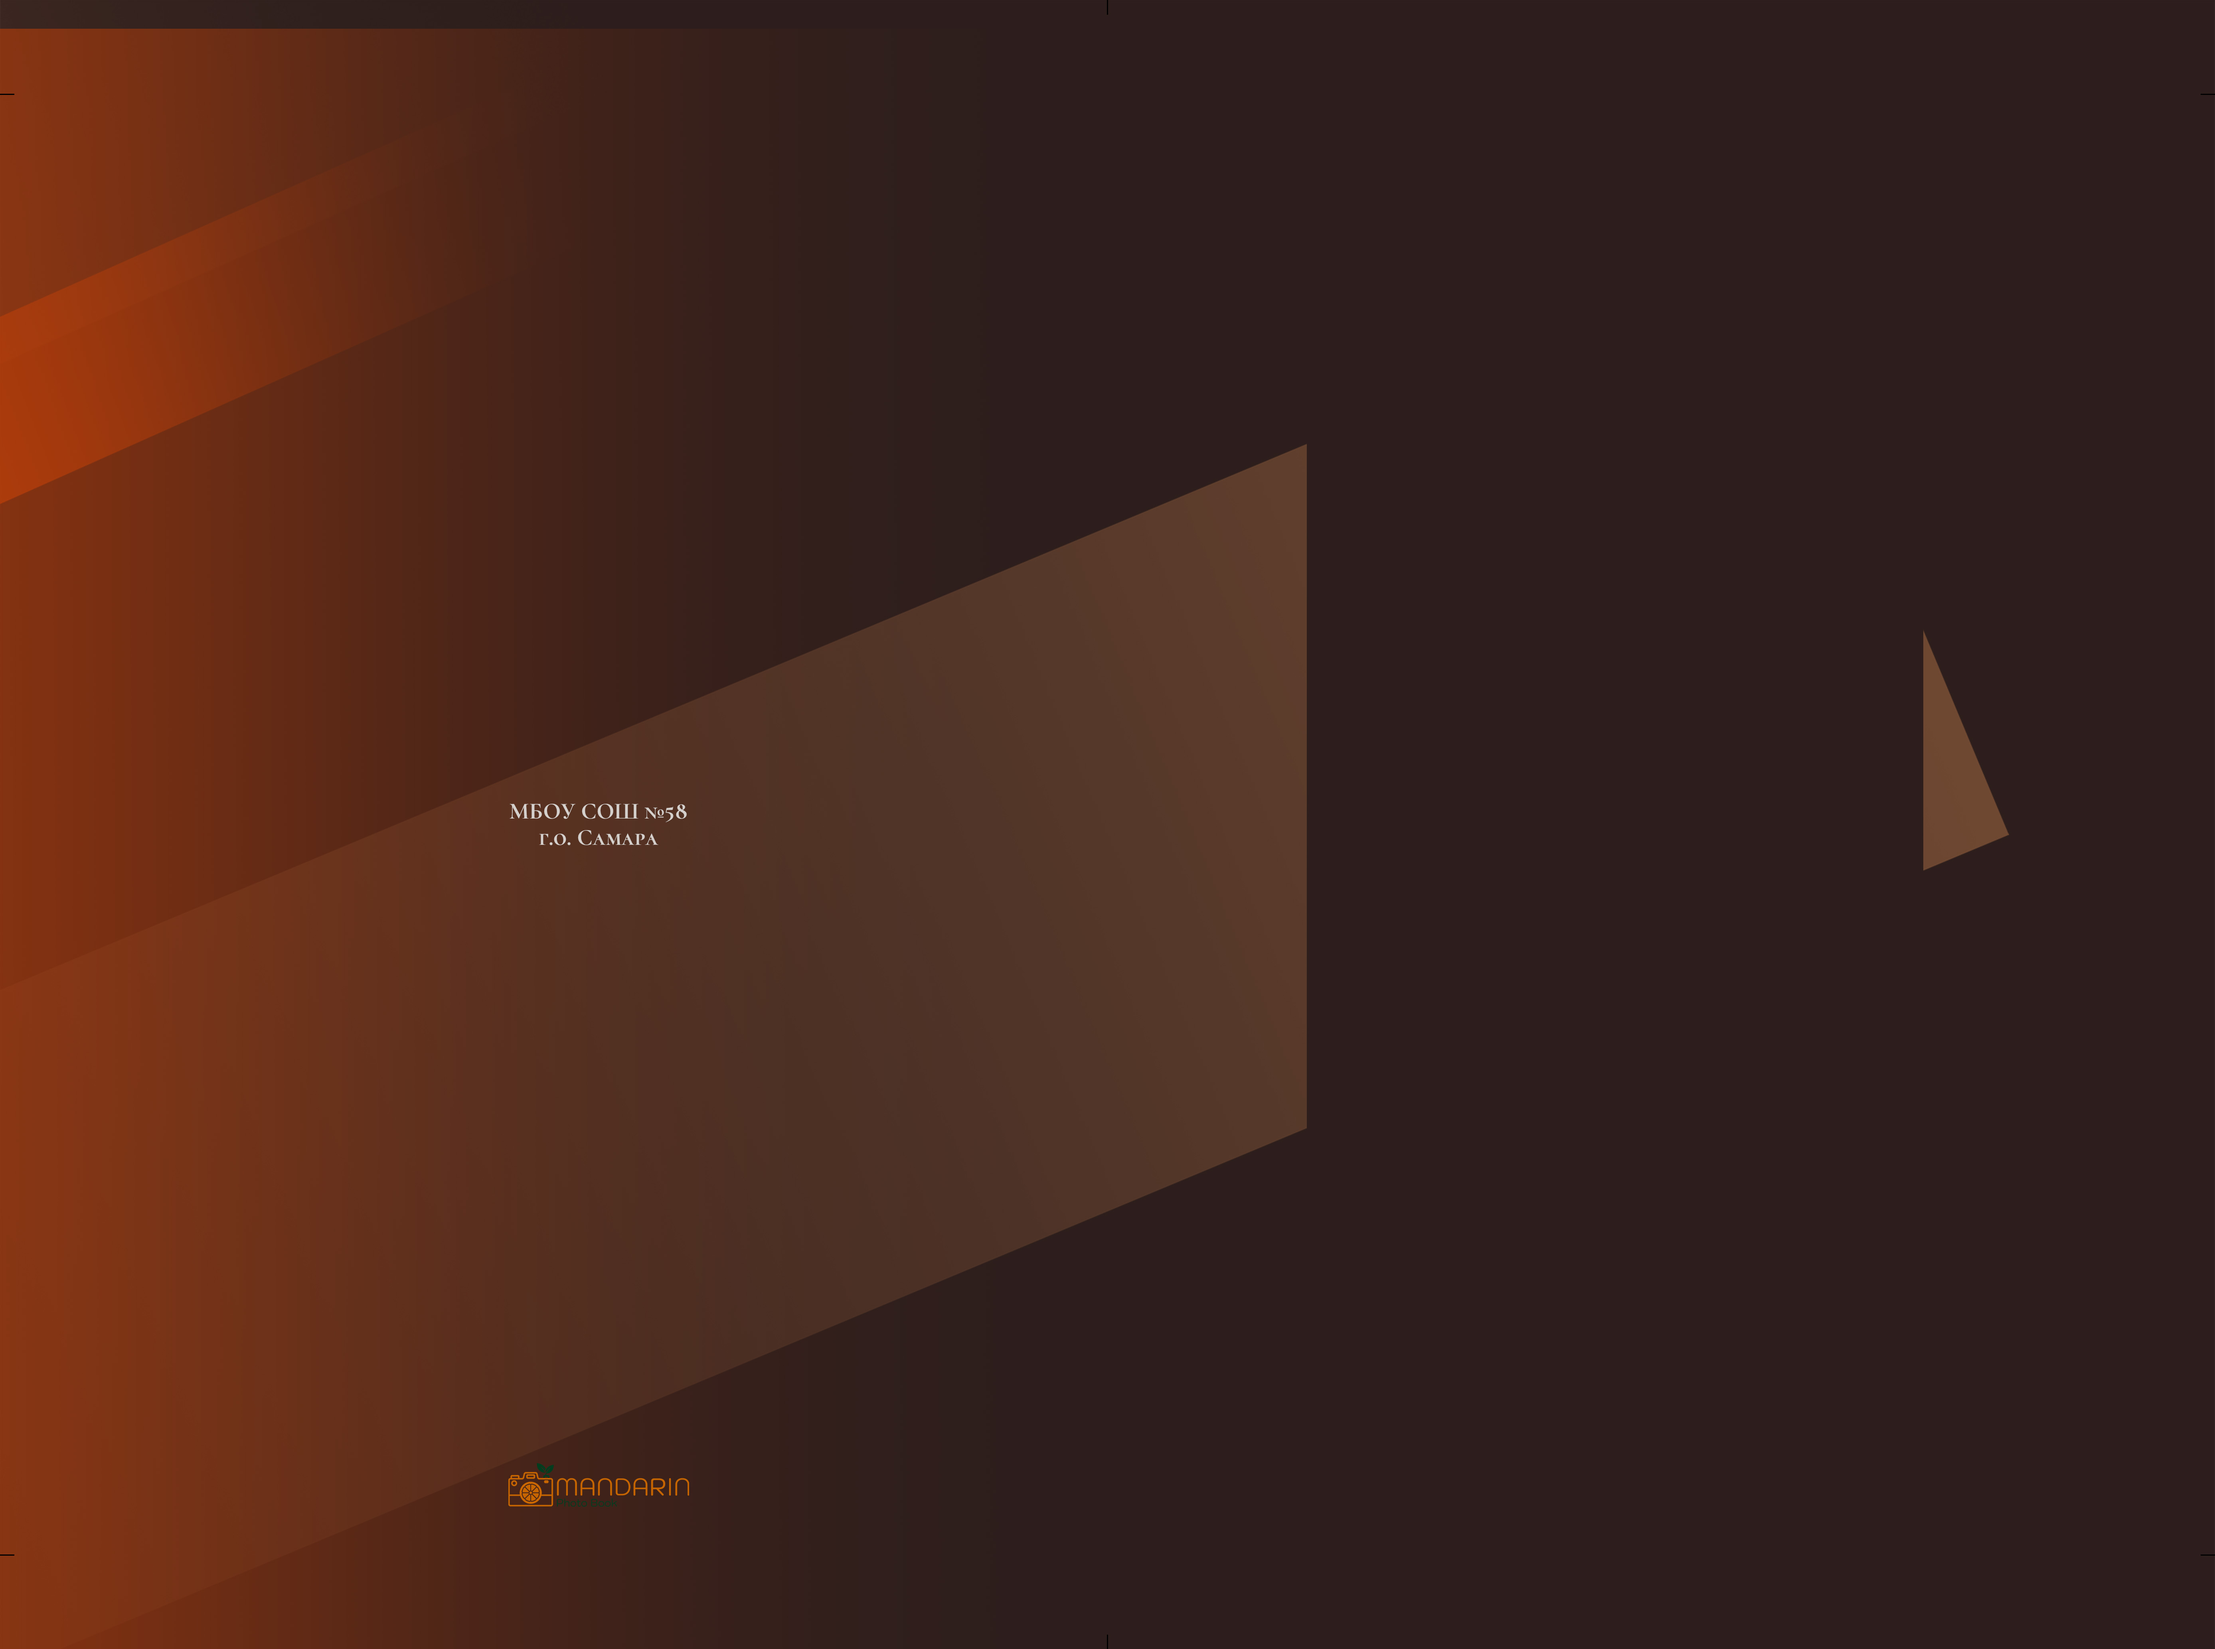
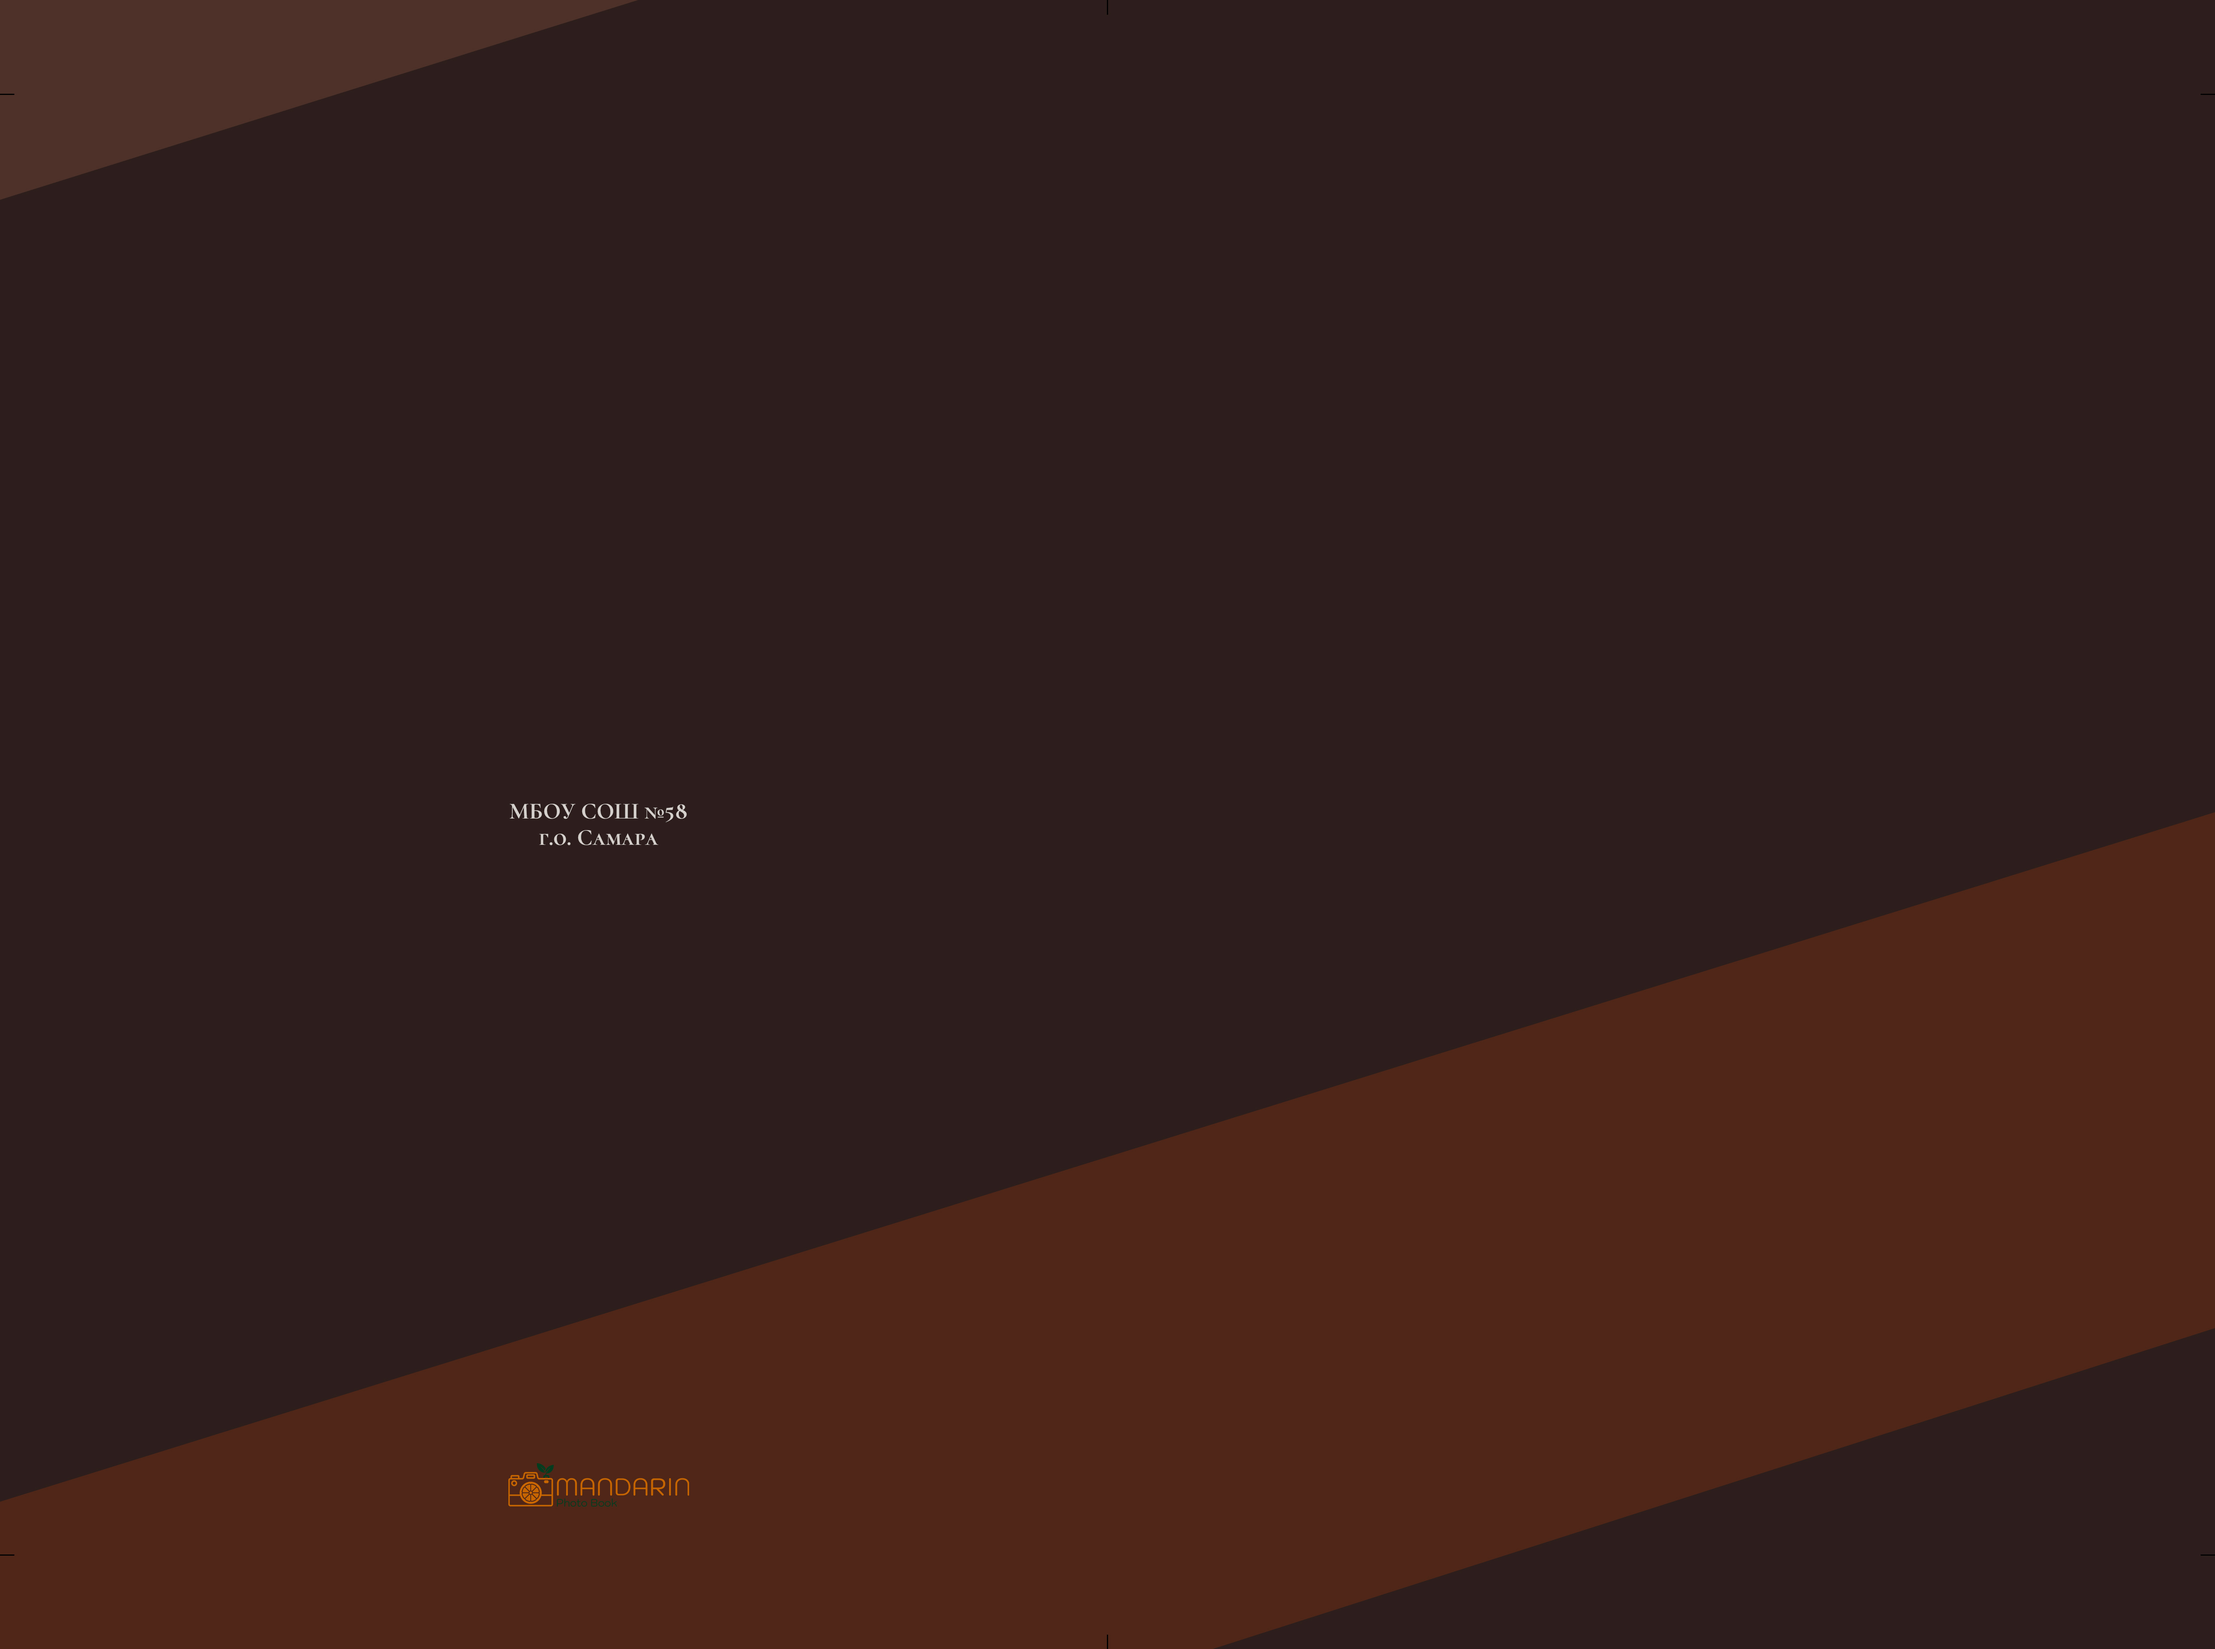
обновление шоколада

diff --git a/constants.js b/constants.js
@@ -9,8 +9,6 @@ export const LAYOUT_PATH = 'assets/'
 // Алекс бук
 export const CUT_OFF = 35;
 
-export const ALBUM_NAME_FIELD = 'Название альбома'
-
 export const ROW_NAMES = {
   albumName: 'Название альбома',
   studentName: 'Имя участника',
@@ -453,8 +451,8 @@ export const ALBUM_NAMES_DATA = {
           // ключи - количество разворотов
           // значение - координаты фото для соответствующего разворота
           1: {
-            left: 2842,
-            top: 439,
+            left: 2984,
+            top: 496,
           },
           2: {
             left: 3032,
@@ -503,8 +501,8 @@ export const ALBUM_NAMES_DATA = {
           // указывается смещение декорации относительно координат фото
           offsets: {
             // из таблицы
-            left: -1342,
-            top: -1492,
+            left: -268,
+            top: -496,
           }
         },
       },
@@ -674,7 +672,7 @@ export const LAYOUT_TYPE_MAPPING = {
   [LAYOUT_TYPE.H1V2V2H1]: [SIZE_TYPES.TWO_VERTICAL_ONE_HORISONTAL_ONE_HORISONRAL_TWO_VERTICAL, SIZE_TYPES.TWO_VERTICAL_ONE_HORISONTAL_ONE_HORISONRAL_TWO_VERTICAL, SIZE_TYPES.TWO_VERTICAL_ONE_HORISONTAL_ONE_HORISONRAL_TWO_VERTICAL, SIZE_TYPES.TWO_VERTICAL_ONE_HORISONTAL_ONE_HORISONRAL_TWO_VERTICAL, SIZE_TYPES.TWO_VERTICAL_ONE_HORISONTAL_ONE_HORISONRAL_TWO_VERTICAL, SIZE_TYPES.TWO_VERTICAL_ONE_HORISONTAL_ONE_HORISONRAL_TWO_VERTICAL],
 }
 
-// знаения задаются в процентах от всей ширины лейаута за минусом двух линий отреза
+// значения задаются в процентах от всей ширины лейаута за минусом двух линий отреза
 // 'layoutWidth минус cutOffs', layoutWidth.minusCutOffs()
 // 'width', width) ширина фот
 // 'width %', width / layoutWidth.minusCutOffs()
